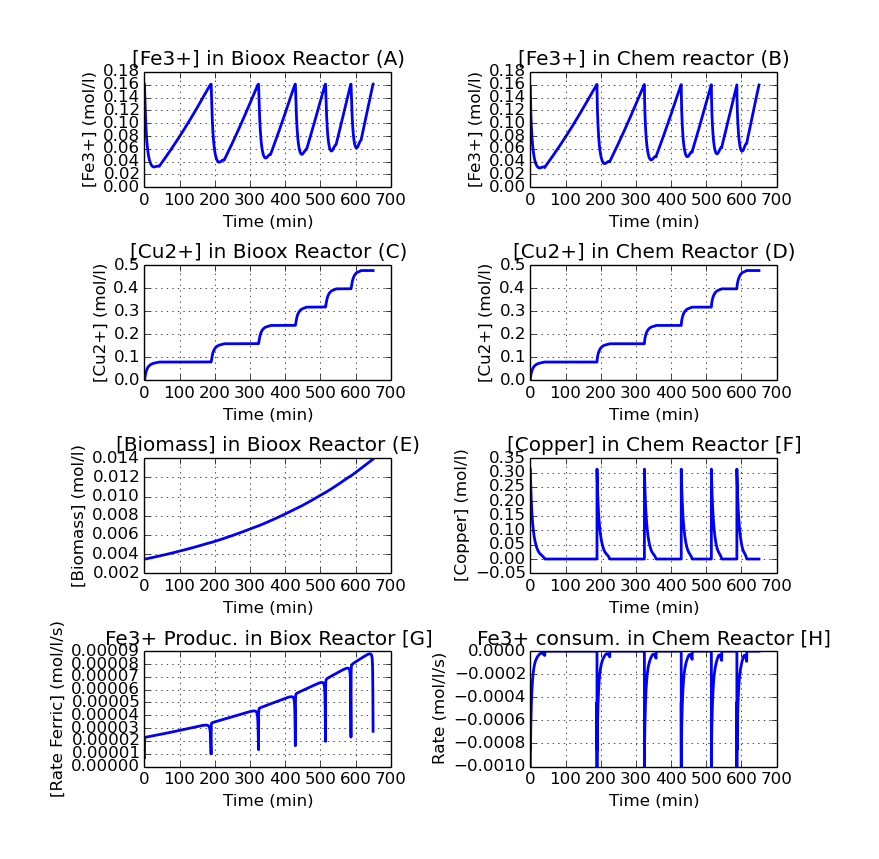
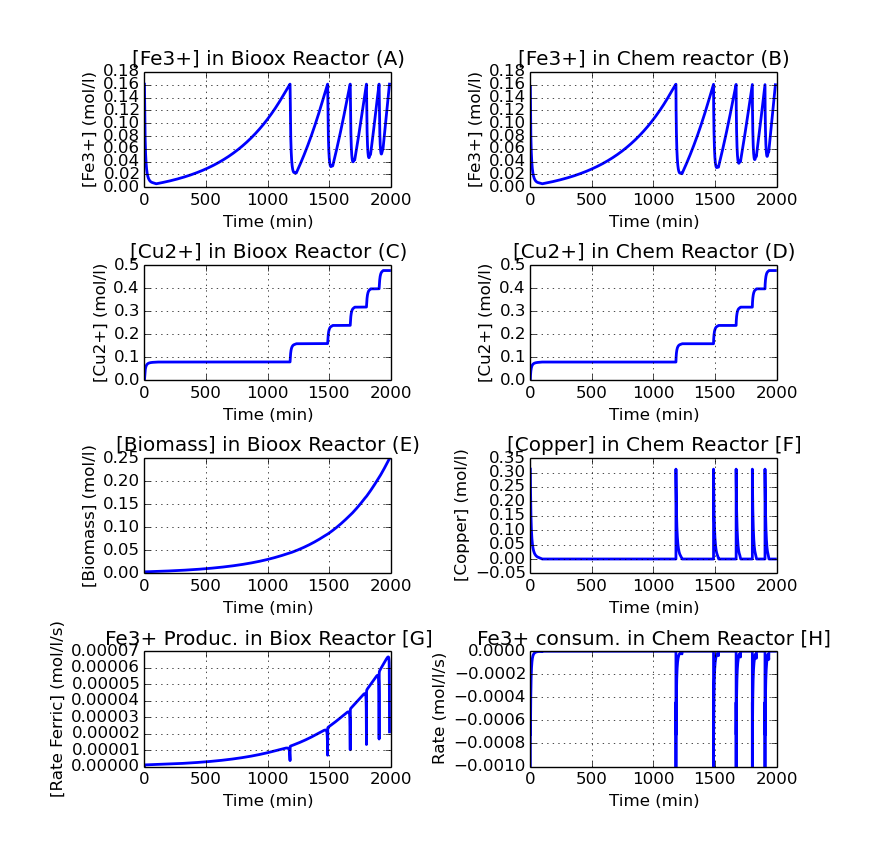
replotting

diff --git a/masters/calculations/reactions.py b/masters/calculations/reactions.py
@@ -48,8 +48,8 @@ class BioxidationRate(object):
         self.component_conc = self.component_conc + (1.0 * rate_biomass)
 
     def simplified_hansford(self):
-        q_spec_growth_rate = 23.55 / 3600
-        # q_spec_growth_rate = 1.0 / 3600
+        # q_spec_growth_rate = 23.55 / 3600
+        q_spec_growth_rate = 1.0 / 3600
 
         K = 0.0024 # Tunde
         if self.ferrous == 0:
